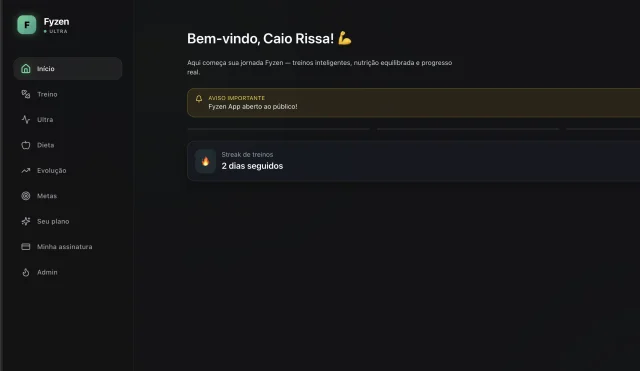
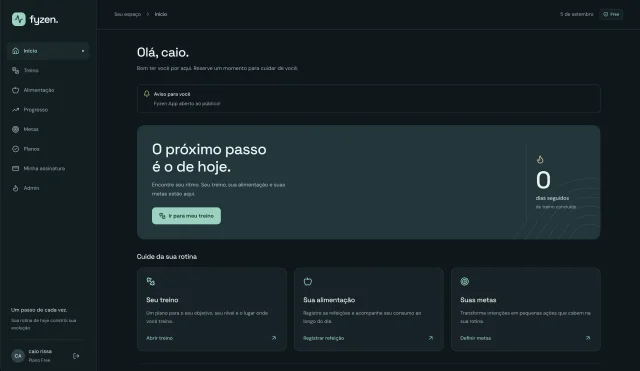
Update project images and enhance Fyzen project details
- Replace existing image files for Fyzen with updated versions for better quality.
- Modify Fyzen project details in projects.js, including updated dimensions and improved alt text for accessibility.

diff --git a/src/data/projects.js b/src/data/projects.js
@@ -19,10 +19,10 @@ export const projects = [
     title: 'Fyzen',
     category: 'Fitness product',
     categoryPt: 'Produto fitness',
-    width: 2722,
-    height: 1576,
-    alt: 'Painel do Fyzen com navegação para treinos, dieta e evolução',
-    altEn: 'Fyzen dashboard with workout, diet, and progress navigation',
+    width: 3402,
+    height: 1968,
+    alt: 'Painel do Fyzen com acesso a treino, alimentação, metas e progresso',
+    altEn: 'Fyzen dashboard with access to workouts, nutrition, goals, and progress',
     description:
       'Aplicativo que cria treinos personalizados a partir do perfil e da experiência de cada pessoa.',
     descriptionEn:
